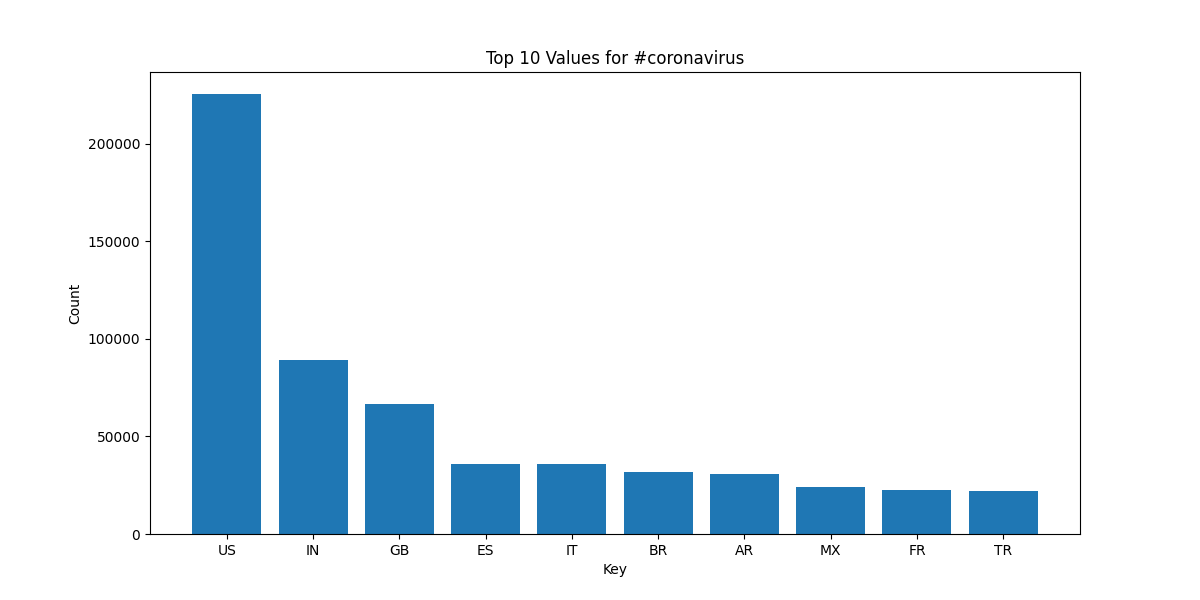
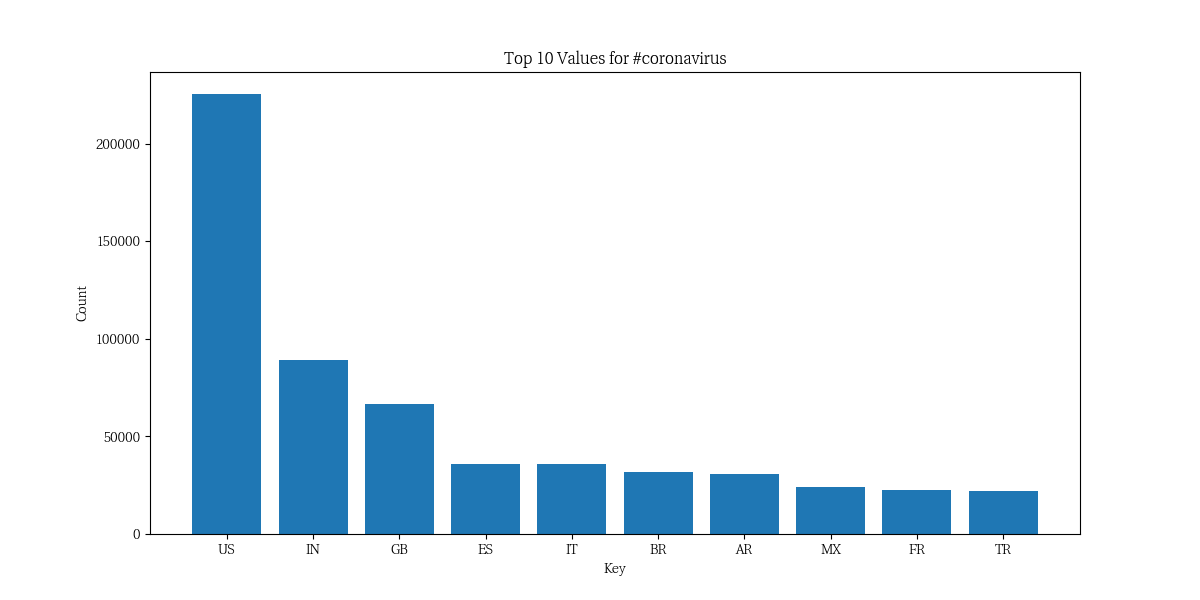
font

diff --git a/src/visualize.py b/src/visualize.py
@@ -14,6 +14,9 @@ import os
 import json
 import matplotlib.pyplot as plt
 from collections import Counter,defaultdict
+from matplotlib import rc
+
+rc('font', family='UnBatang')
 
 # open the input path
 with open(args.input_path) as f:
